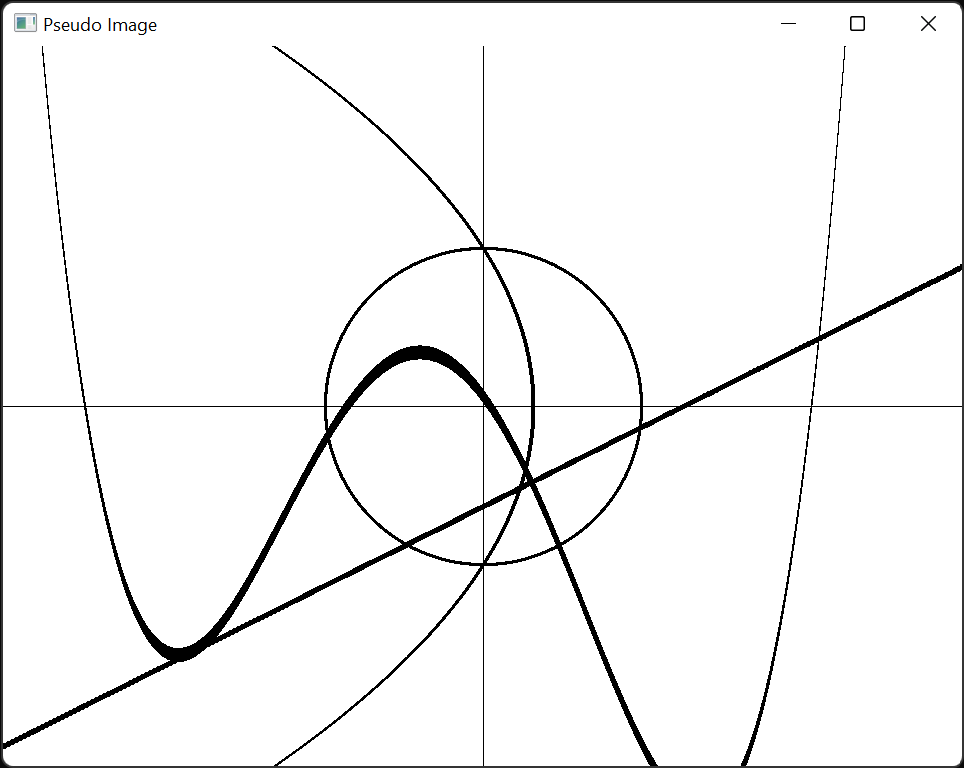
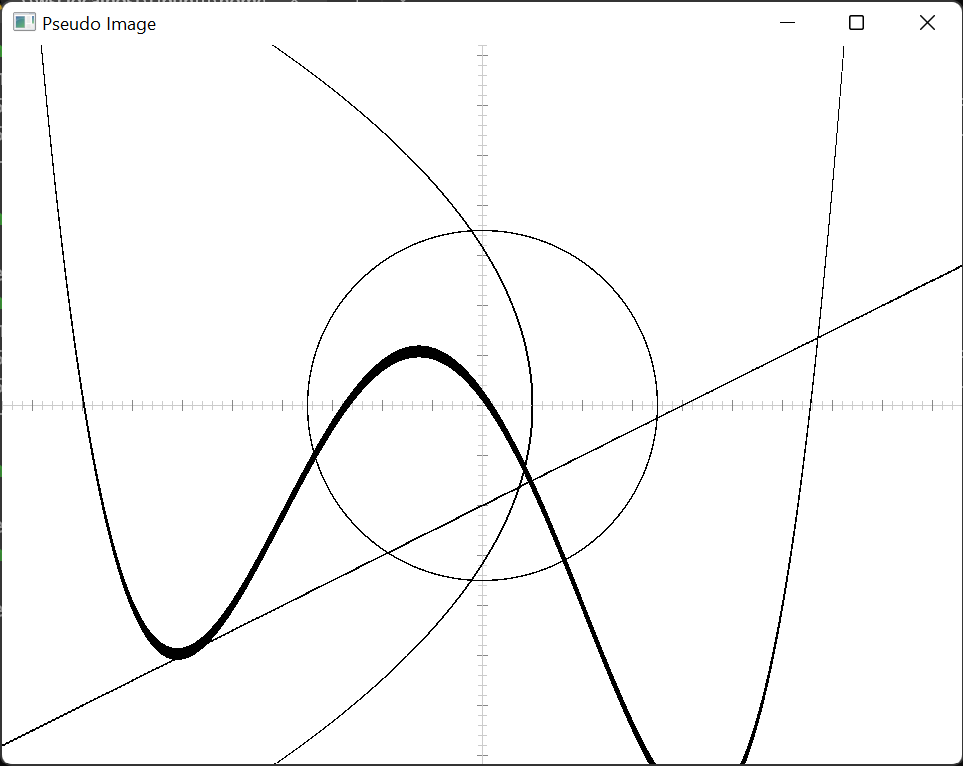
Naive coordinate system

diff --git a/main.cc b/main.cc
@@ -7,6 +7,7 @@
 #include <stdexcept>
 #include <chrono>
 #include <thread>
+#include <cmath>
 
 int pseudo_image(std::vector<std::string> const&);
 
@@ -38,10 +39,17 @@ int pseudo_image(std::vector<std::string> const& args) {
 				delete[] data;
 				this->w = w;
 				this->h = h;
-				data = new GLuint[this->w*this->h];
-				for (size_t j {0}; j < this->h; ++j)
-					for (size_t i {0}; i < this->w; ++i)
-						data[j*this->w+i] = fragment(i, j);
+				data = new GLuint[w*h];
+
+				/* pixel per unit or density of a unit */
+				auto const unit {50.0};
+
+				/* used for -r <= x <= r, where 2r = 1pixel in length */
+				auto const r {1.0/(2*unit)};
+
+				for (size_t j {0}; j < h; ++j) for (size_t i {0}; i < w; ++i)
+					data[j*w+i] = fragment((w/-2.0+i)/unit, -(h/-2.0+j)/unit, r);
+
 				return true;
 			}
 			return false;
@@ -51,25 +59,43 @@ int pseudo_image(std::vector<std::string> const& args) {
 		size_t h;
 
 	private:
-		GLuint fragment(size_t i, size_t j) {
-			auto const u {50.0};
-			auto const r {1.0/(2*u)};
-			auto const x { (-static_cast<double>(w)/2+i)/u};
-			auto const y {-(-static_cast<double>(h)/2+j)/u};
-			GLuint color {0xffffffff};
-			if (std::abs(x) <= r)
-				color = 0xff000000;
-			if (std::abs(y) <= r)
-				color = 0xff000000;
-			if (std::abs(x*x+y*y - 10) <= 20*r)
-				color = 0xff000000;
-			if (std::abs(y+4 - 0.01*(x+7)*(x+5)*(x-2)*(x-6)) <= 14*r)
-				color = 0xff000000;
-			if (std::abs(y+2 - 0.5*x) <= 6*r)
-				color = 0xff000000;
-			if (std::abs(x-1 + 0.1*y*y) <= 4*r)
-				color = 0xff000000;
-			return color;
+		GLuint fragment(double x, double y, double r) {
+			GLuint color {0x000000};
+
+			/* x-axis */
+			if (r >= std::abs(y))
+				color = 0x333333;
+			/* x-axis 0.2 unit */
+			if (r < std::abs(x) && r >= std::abs(5*x-std::floor(5*x)) && 8*r >= std::abs(y))
+				color = 0x333333;
+			/* x-axis unit */
+			if (r < std::abs(x) && r >= std::abs(x-std::floor(x)) && 10*r >= std::abs(y))
+				color = 0x777777;
+
+			/* y-axis */
+			if (r >= std::abs(x))
+				color = 0x333333;
+			/* y-axis 0.2 unit */
+			if (r < std::abs(x) && r >= std::abs(5*y-std::floor(5*y)) && 8*r >= std::abs(x))
+				color = 0x333333;
+			/* y-axis unit */
+			if (r < std::abs(x) && r >= std::abs(y-std::floor(y)) && 10*r >= std::abs(x))
+				color = 0x777777;
+
+			/* line */
+			if (2*r >= std::abs(y+2 - 0.5*x))
+				color = 0xffffff;
+			/* circle */
+			if (10*r >= std::abs(x*x+y*y - 3.5*3.5))
+				color = 0xffffff;
+			/* parabola */
+			if (2*r >= std::abs(x-1 + 0.1*y*y))
+				color = 0xffffff;
+			/* polynomial */
+			if (12*r >= std::abs(y+4 - 0.01*(x+7)*(x+5)*(x-2)*(x-6)))
+				color = 0xffffff;
+
+			return ~color | 0xff000000;
 		}
 	}
 	image;

diff --git a/readme.md b/readme.md
@@ -6,6 +6,7 @@ The makefile is built to be used from Ubuntu WSL in Windows.
 
 ## Assumptions
 
+- apt package manager
 - Bash
 - x86_64 architecture
 - OpenGL 4.5 minimum
